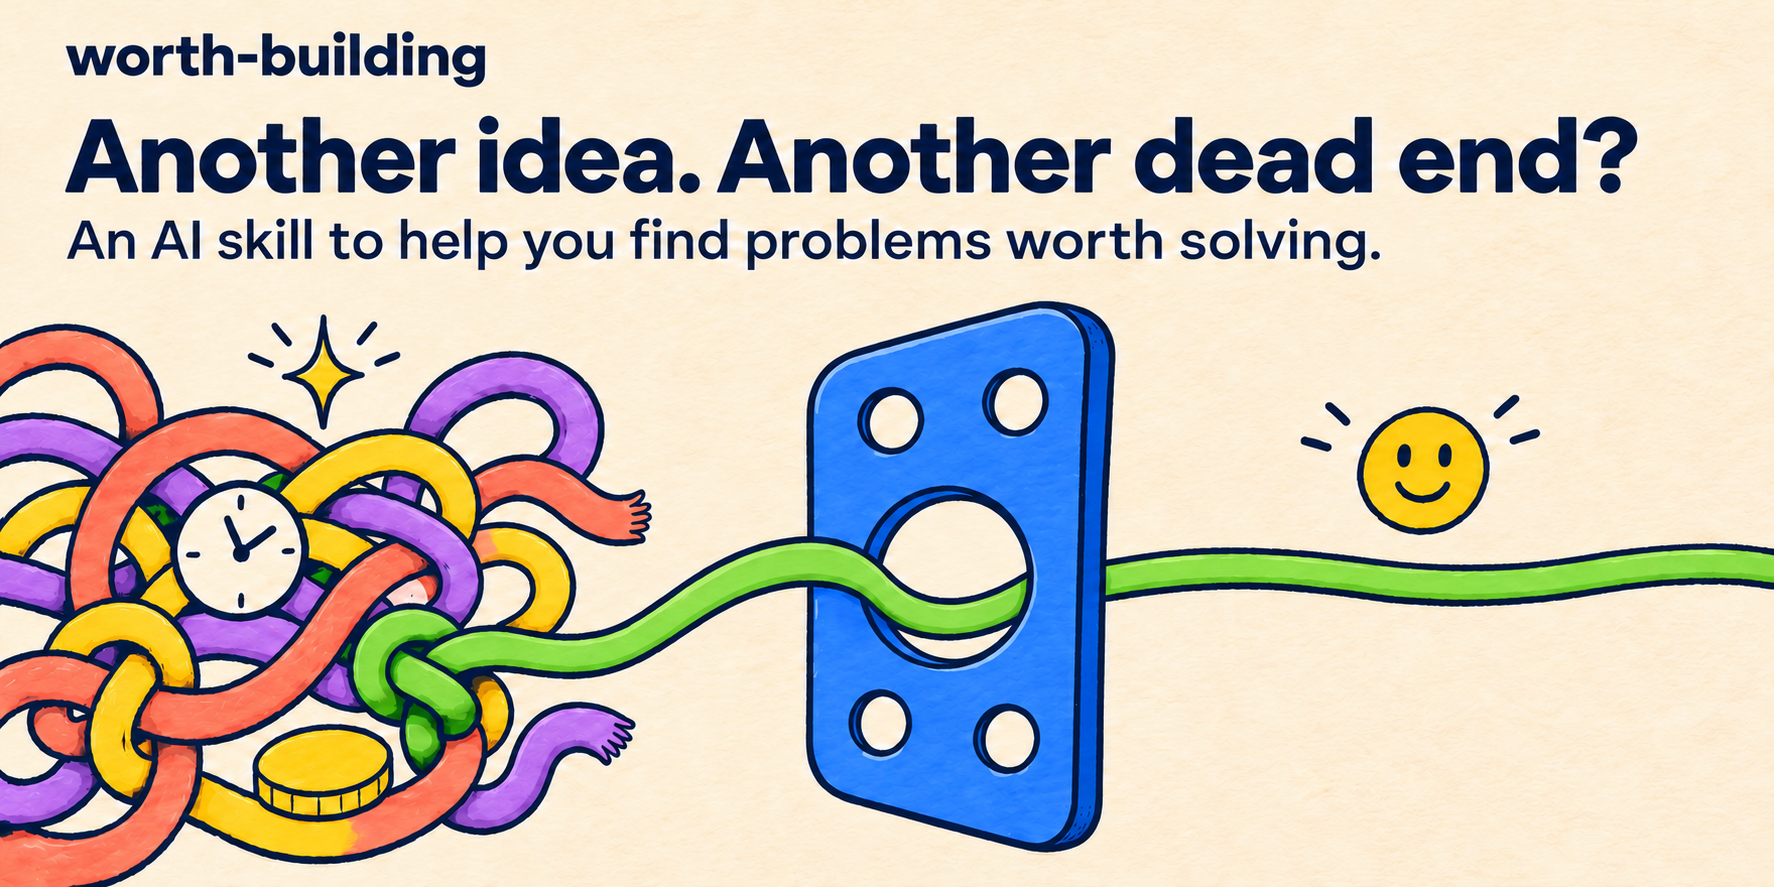
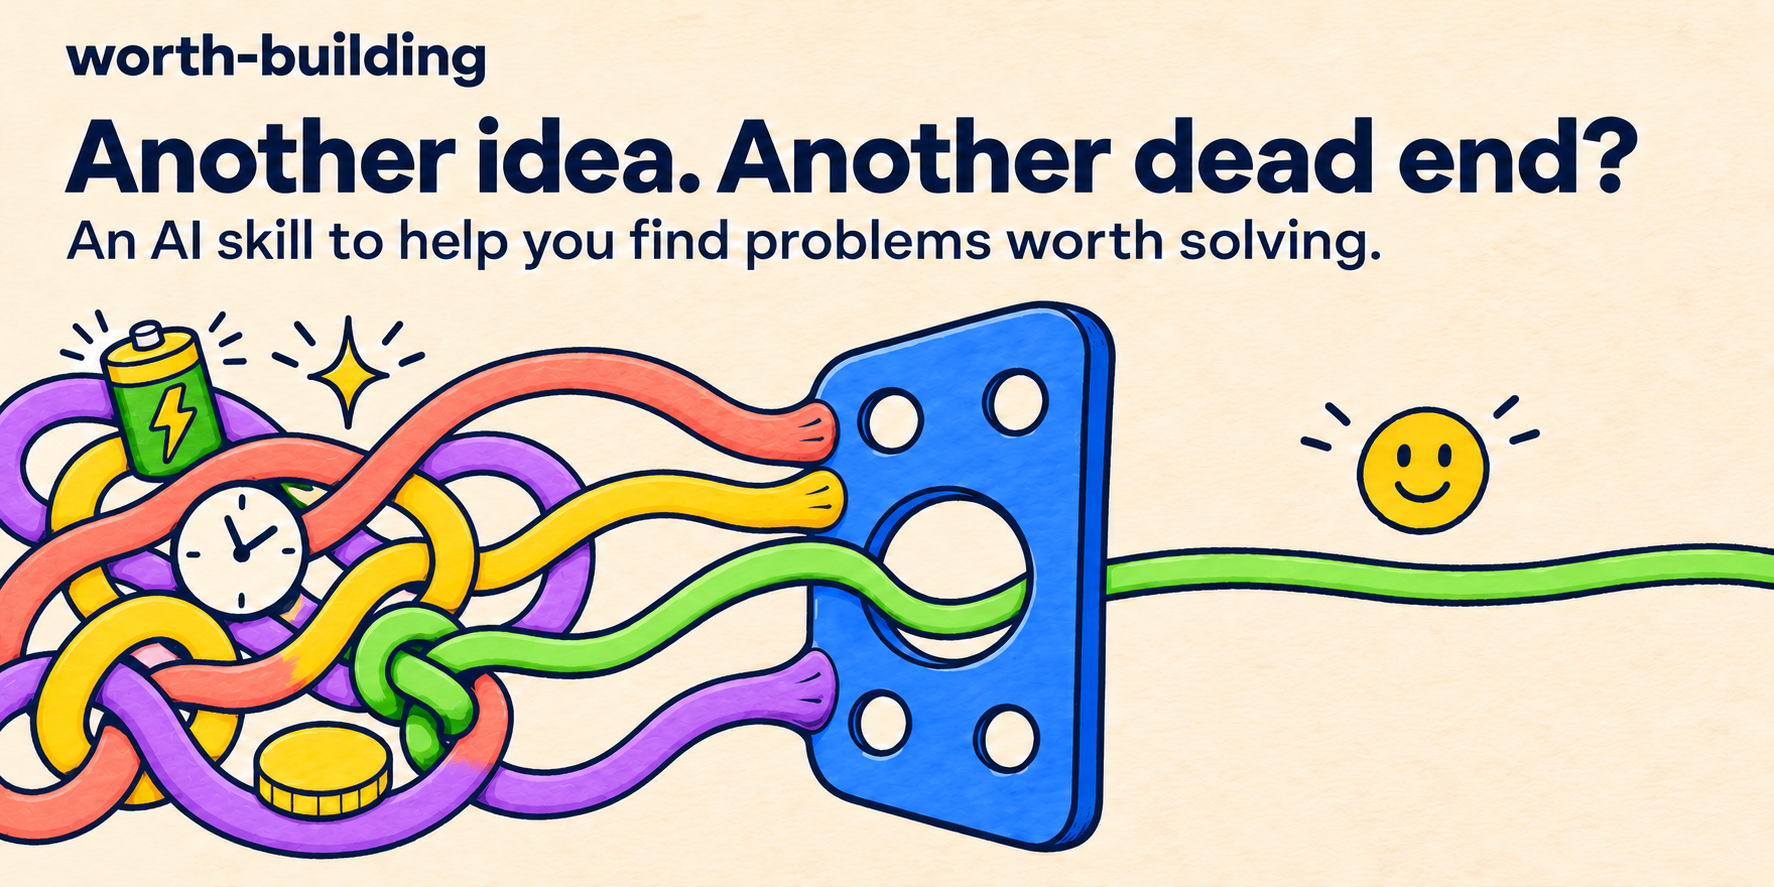
Show which strands the filter stops

diff --git a/README.md b/README.md
@@ -1,6 +1,6 @@
 # worth-building
 
-![worth-building. Another idea. Another dead end? An AI skill to help you find problems worth solving. A green strand emerges from the tangle on the left, threads through a blue filter, and continues beneath a smiling face.](assets/banner.png)
+![worth-building. Another idea. Another dead end? An AI skill to help you find problems worth solving. A clock, star, coin, and battery sit among tangled strands. The blue filter stops the red, yellow, and purple strands. Only the green strand passes through to the smiling face.](assets/banner.png)
 
 The last idea felt right, too. Before the next one takes over your evenings or budget, find out who has the problem, what it costs them, and how they handle it today.
 
